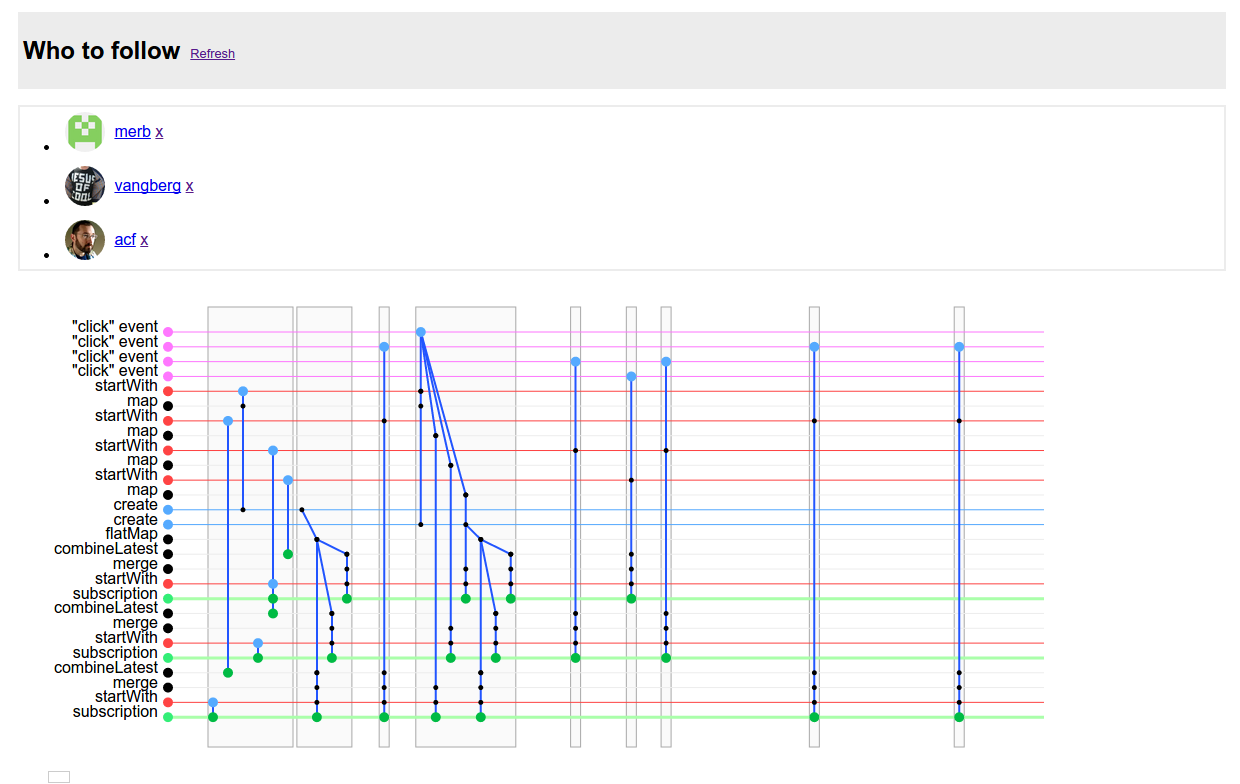
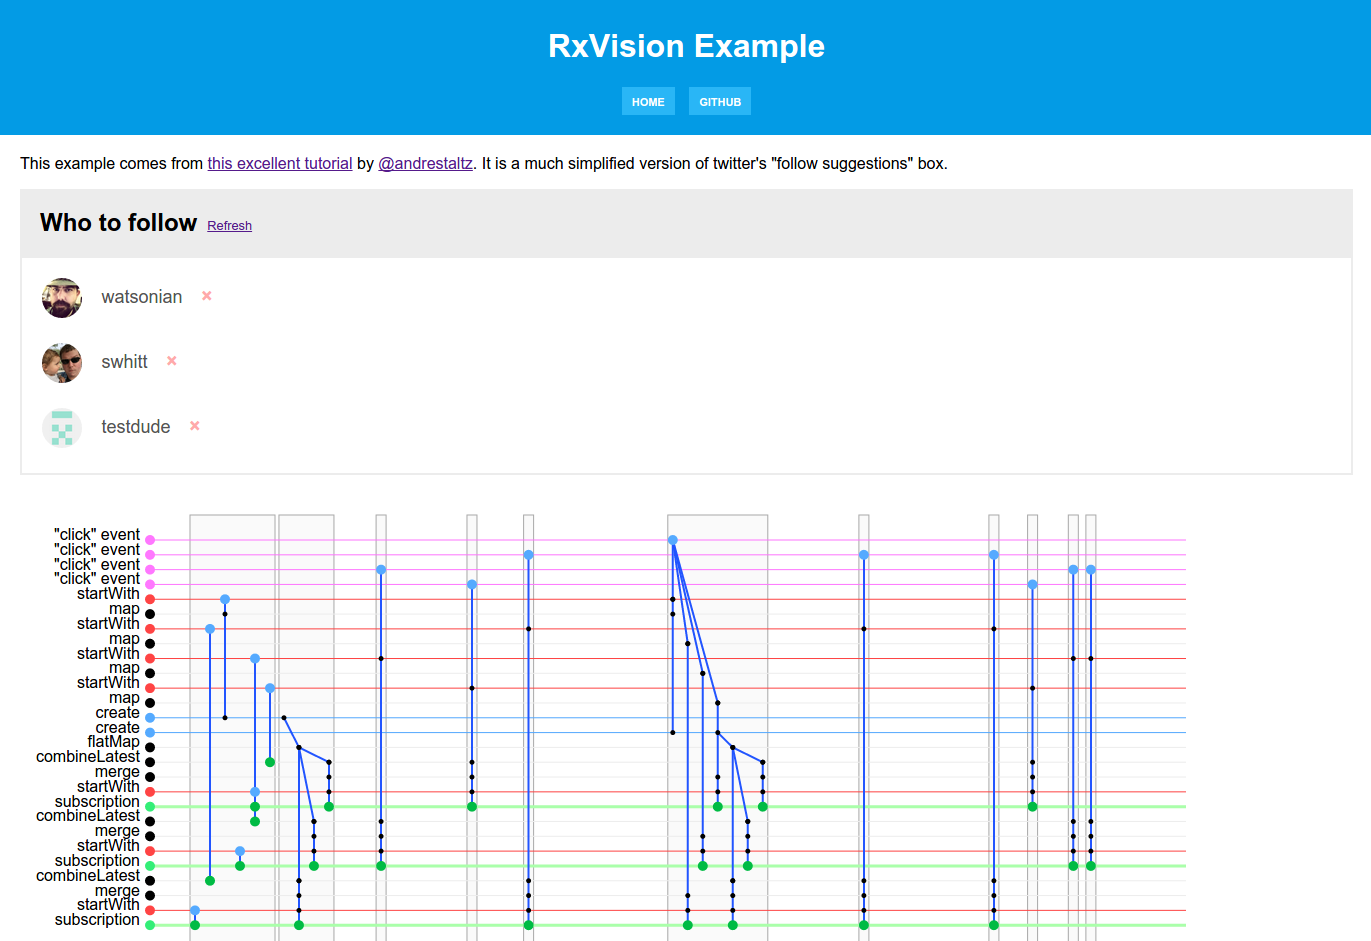
better styling, attribution for example

Changed region(s): [[0.0306, 0.3673, 0.8581, 1.0], [0.0, 0.0, 1.0, 0.1837], [0.0306, 0.2143, 0.1839, 0.3367]]

diff --git a/examples/gh-follow/index.html b/examples/gh-follow/index.html
@@ -13,6 +13,7 @@
     <a href="https://github.com/jaredly/rxvision" target="_blank">github</a>
     </header>
     <div class="container">
+        <p>This example comes from <a href="https://gist.github.com/staltz/868e7e9bc2a7b8c1f754" target="_blank">this excellent tutorial</a> by <a href="https://twitter.com/andrestaltz">@andrestaltz</a>. It is a much simplified version of twitter's "follow suggestions" box.</p>
         <div class="header">
             <h2>Who to follow</h2><a href="#" class="refresh">Refresh</a>
         </div>
@@ -20,17 +21,17 @@
             <li class="suggestion1">
                 <img />
                 <a href="#" target="_blank" class="username">this will not be displayed</a>
-                <a href="#" class="close close1">x</a>
+                <a href="#" class="close close1">&times;</a>
             </li>
             <li class="suggestion2">
                 <img />
                 <a href="#" target="_blank" class="username">neither this</a>
-                <a href="#" class="close close2">x</a>
+                <a href="#" class="close close2">&times;</a>
             </li>
             <li class="suggestion3">
                 <img />
                 <a href="#" target="_blank" class="username">nor this</a>
-                <a href="#" class="close close3">x</a>
+                <a href="#" class="close close3">&times;</a>
             </li>
         </ul>
     </div>

diff --git a/examples/gh-follow/index.css b/examples/gh-follow/index.css
@@ -12,18 +12,28 @@ h2 {
 }
 .header {
     background: #ECECEC;
-    padding: 5px;
+    padding: 0 20px
 }
 .suggestions {
     border: 2px solid #ECECEC;
+    margin: 0;
+    padding: 10px 0;
 }
 li {
     padding: 5px;
+    padding: 10px 20px;
+    list-style: none;
 }
 li img {
     width: 40px;
     height: 40px;
     border-radius: 20px;
+}
+li .username {
+    padding: 0 10px;
+    color: #555;
+    text-decoration: none;
+    font-size: 18px;
 }
 li .username, li .close {
     display: inline-block;
@@ -31,6 +41,23 @@ li .username, li .close {
     bottom: 15px;
     left: 5px;
 }
+
+li .close {
+  text-decoration: none;
+  font-size: 20px;
+  padding: 5px 4px;
+  background-color: white;
+  line-height: 10px;
+  border-radius: 24px;
+  font-weight: bold;
+  color: #faa;
+}
+
+li .close:hover {
+    background-color: #faa;
+    color: white;
+}
+
 .container {
     margin: 20px;
 }
@@ -41,7 +68,7 @@ body {
 }
 header {
   text-align: center;
-  background-color: #F4511E;
+  background-color: #039BE5;
   color: white;
   padding: 10px 0 20px;
   margin-bottom: 20px;
@@ -51,7 +78,7 @@ header a {
   font-weight: bold;
   font-variant: small-caps;
   text-decoration: none;
-  background-color: #FF7043;
+  background-color: #29B6F6;
   display: inline-block;
   padding: 5px 10px;
   margin: 0 5px;

diff --git a/index.html b/index.html
@@ -9,8 +9,8 @@
     <h3>A visualizer / debugger for reactive streams</h3>
 
     <section id="images">
-        <a href="examples/playground"><img src="playground-shot.png"/><span>RxVision Playground</span></a>
-        <a href="examples/gh-follow"><img src="gh-follow-shot.png"/><span>Github Follow Example</span></a>
+        <a href="examples/playground"><img src="playground-shot.png"/><span>Learn by doing</span></a>
+        <a href="examples/gh-follow"><img src="gh-follow-shot.png"/><span>See a more complex example</span></a>
     </section>
 
 <script>
